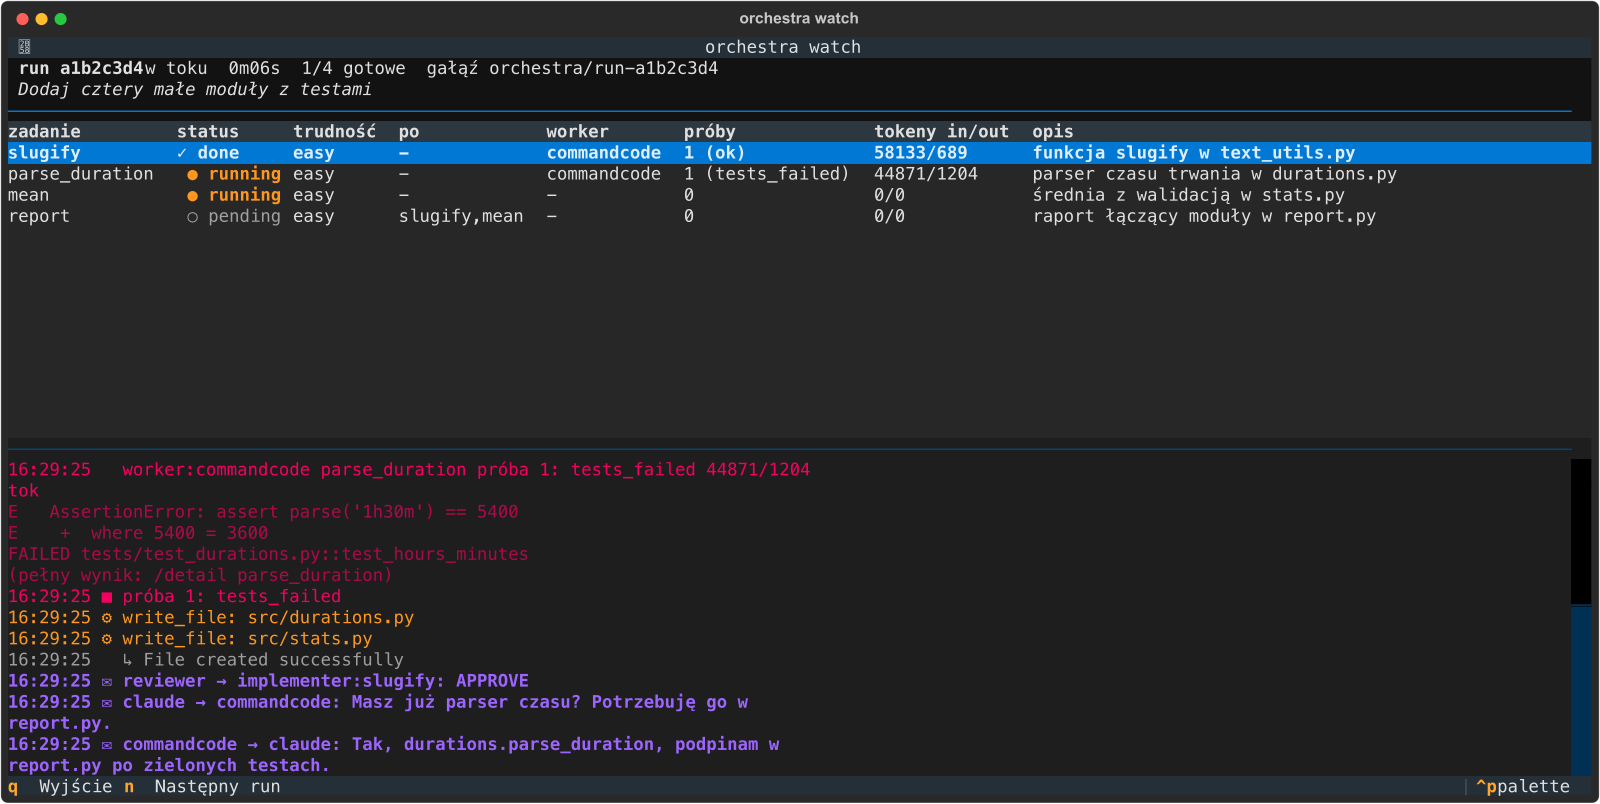
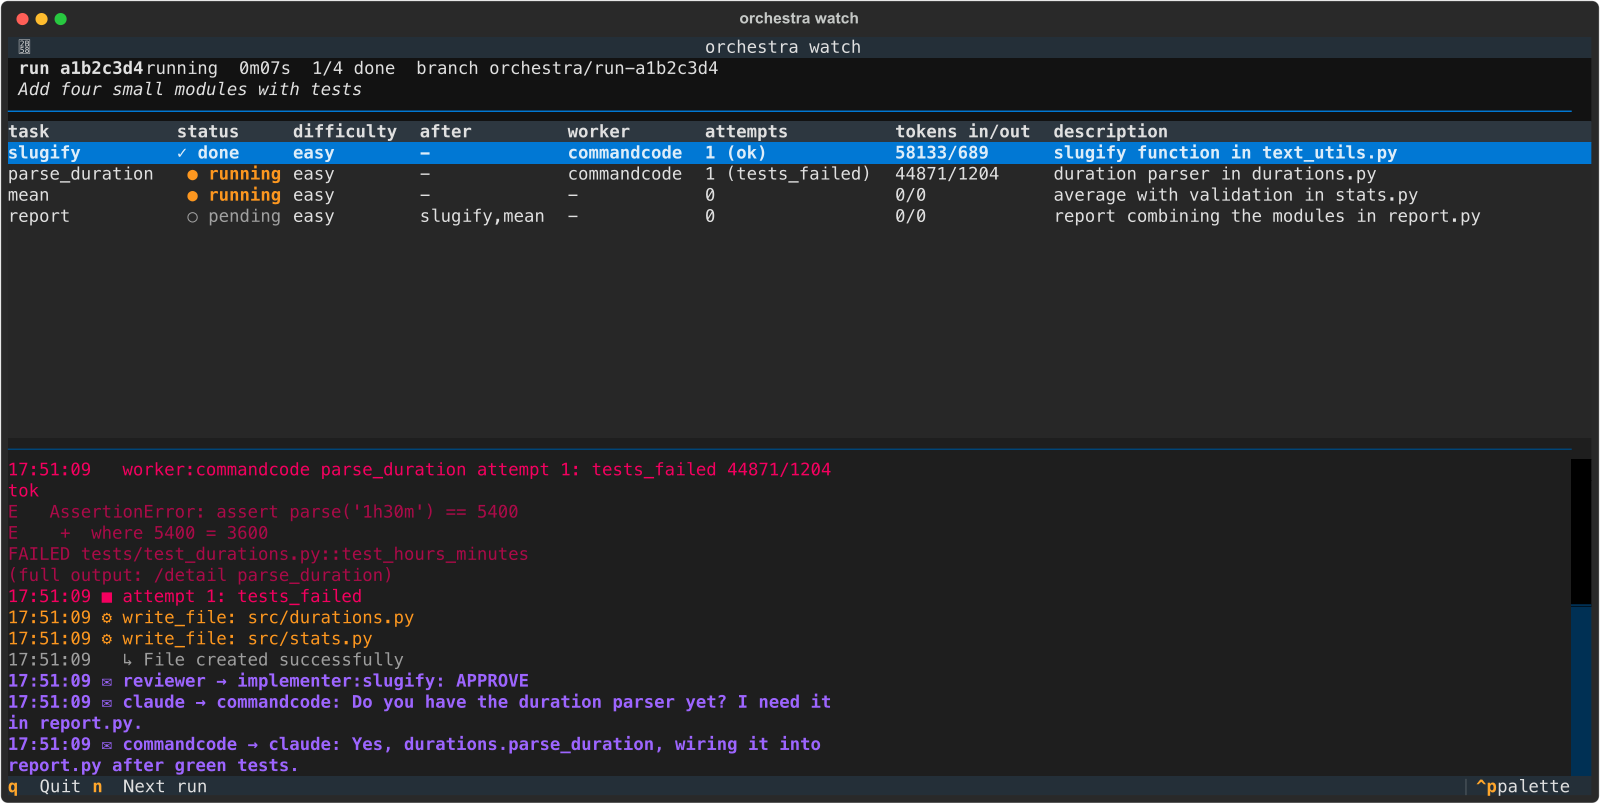
i18n: README, zrzuty TUI i testy po angielsku

diff --git a/tests/test_readme_sync.py b/tests/test_readme_sync.py
@@ -1,10 +1,10 @@
-"""README.pl.md ma opisywać te same funkcje co README.md (test pisze mocny model, tłumaczy worker)."""
+"""README.pl.md must describe the same features as README.md (the strong model writes the test, a worker translates)."""
 
 from pathlib import Path
 
 ROOT = Path(__file__).resolve().parent.parent
 
-# nazwy poleceń, opcji i pól, które muszą wystąpić dosłownie w obu plikach
+# names of commands, options and fields that must appear verbatim in both files
 TOKENS = ["red_check", "red_check_failed", "expect_red", "--no-red-check", "integration_test_cmd", "--integration-test",
           "orchestra ledger budget --set 1.0", "price_in_per_mtok", "price_out_per_mtok", "over_budget",
           "orchestra ledger budget --check", "orchestra ledger add RUN TASK --outcome accepted|fixed|rejected",

diff --git a/tests/test_cli_help.py b/tests/test_cli_help.py
@@ -8,7 +8,7 @@ import pytest
 from orchestra.cli import build_parser, main
 
 COMMANDS = ["doctor", "plan", "init-plan", "run", "watch", "roles", "ledger"]
-POLISH = re.compile("[ąćęłńóśźżĄĆĘŁŃÓŚŹŻ]")
+POLISH = re.compile("[ąćęłńóśźżĄĆĘŁŃÓŚŹŻ]")  # i18n-ok
 
 
 def help_of(capsys, *argv: str) -> str:

diff --git a/README.md b/README.md
@@ -8,7 +8,7 @@ A cost-aware orchestrator for coding agents. Claude Code breaks a hard task into
 
 ![TUI overview: task table, live worker steps, buttons](docs/tui-overview.png)
 
-> The interface strings are in Polish. The screenshots show a made-up demo run.
+> The screenshots show a made-up demo run.
 
 ## Why
 
@@ -71,7 +71,7 @@ Claude is the default, not a requirement. Everything has a fallback, and everyth
 
 **Controlling client.** `orch` picks the first client it finds (`claude`, `opencode`, `codex`) or the one you name with `--client`. The same `orchestra` MCP server and the same task-splitting instructions are attached to each of them, only the wiring differs. If none is installed, `orch` does not fail: it opens the TUI alone, and the **▶ Plan** button (F7) takes a goal, which the planner role splits into tasks, or a plan file that you wrote yourself (`orchestra init-plan` writes a template).
 
-**Roles with a fallback.** `planner`, `reviewer` and `implementer` point at agents in `agents.toml`. If the configured agent is not installed, the role moves to the first available one (planners and reviewers prefer a `strong` tier, workers a `cheap` tier, then the order of `fallback_order`). The bar under the toolbar shows who does what, and `*` marks a change from `agents.toml`. **⚙ Role** (F8) lets you pick any agent for each role and set its model, and `orchestra roles` does the same from the shell. The choice is saved in `.orchestra/roles.json` and applies to the next run, including runs started from Claude Code, OpenCode or Codex. A weaker planner splits tasks worse, which is the price of not having a strong model.
+**Roles with a fallback.** `planner`, `reviewer` and `implementer` point at agents in `agents.toml`. If the configured agent is not installed, the role moves to the first available one (planners and reviewers prefer a `strong` tier, workers a `cheap` tier, then the order of `fallback_order`). The bar under the toolbar shows who does what, and `*` marks a change from `agents.toml`. **⚙ Roles** (F8) lets you pick any agent for each role and set its model, and `orchestra roles` does the same from the shell. The choice is saved in `.orchestra/roles.json` and applies to the next run, including runs started from Claude Code, OpenCode or Codex. A weaker planner splits tasks worse, which is the price of not having a strong model.
 
 ![Role bar with a fallback and the Role dialog](docs/tui-roles.png)
 
@@ -108,11 +108,11 @@ Everything is visible at once, and every action has both a button and a function
 | --- | --- | --- |
 | ＋ Agent | Ctrl+N | new agent session of any type from `agents.toml`, in its own worktree |
 | ▶ Plan | F7 | a goal for the planner role, or your own plan file, runs without any client |
-| ⚙ Role | F8 | which agent and model plays planner, reviewer, implementer |
-| ✉ Wiadom. (message) | F3 | message to a running agent, delivered as its next prompt |
-| ✎ Wskazówka (hint) | F4 | text appended to the next attempt of the chosen task's worker |
+| ⚙ Roles | F8 | which agent and model plays planner, reviewer, implementer |
+| ✉ Msg | F3 | message to a running agent, delivered as its next prompt |
+| ✎ Hint | F4 | text appended to the next attempt of the chosen task's worker |
 | 🔎 Info (details) | F5 | error, `test_cmd`, full test output and files of the last attempt |
-| ⛔ Anuluj (cancel run) | F6 | kills the working workers and ends the run (with confirmation) |
+| ⛔ Cancel | F6 | kills the working workers and ends the run (with confirmation) |
 | ± Diff | F2 | diff of the selected agent's worktree |
 
 Select a row on the left and the text field changes meaning: for an agent it is a prompt, for a task it is a hint (the line under the log tells you what will happen).
@@ -121,7 +121,7 @@ When a worker attempt fails its tests, you see the cause, not just a status:
 
 ![A failed attempt with its test output](docs/tui-failure.png)
 
-Agent conversations and reviewer remarks are in the `✉ wiadomości` (messages) row. You add a new agent from a list, without typing commands:
+Agent conversations and reviewer remarks are in the `✉ messages` row. You add a new agent from a list, without typing commands:
 
 ![Agent conversations and the new agent dialog](docs/tui-new-agent.png)
 

diff --git a/README.pl.md b/README.pl.md
@@ -69,7 +69,7 @@ Claude jest domyślny, ale nie wymagany. Wszystko ma fallback i wszystko da się
 
 **Klient sterujący.** `orch` wybiera pierwszego znalezionego klienta (`claude`, `opencode`, `codex`) albo tego, którego podasz w `--client`. Do każdego podpina ten sam serwer MCP `orchestra` i tę samą instrukcję rozbijania zadań, różni się tylko sposób podłączenia. Gdy nie ma żadnego, `orch` nie kończy się błędem: otwiera samo TUI, a przycisk **▶ Plan** (F7) przyjmuje cel, który rola planner rozbija na zadania, albo plik planu napisany przez Ciebie (szablon zapisze `orchestra init-plan`).
 
-**Role z fallbackiem.** `planner`, `reviewer` i `implementer` wskazują agentów z `agents.toml`. Jeśli wskazany agent nie jest zainstalowany, rola przechodzi na pierwszego dostępnego (planner i reviewer wolą poziom `strong`, worker `cheap`, potem kolejność z `fallback_order`). Pasek pod przyciskami pokazuje, kto co robi, a `*` oznacza zmianę względem `agents.toml`. **⚙ Role** (F8) pozwala wybrać dowolnego agenta dla każdej roli i ustawić jego model, to samo robi `orchestra roles` w terminalu. Wybór zapisuje się w `.orchestra/roles.json` i obowiązuje od następnego przebiegu, także tych uruchomionych z Claude Code, OpenCode albo Codex. Słabszy planner gorzej dzieli zadania, taka jest cena braku mocnego modelu.
+**Role z fallbackiem.** `planner`, `reviewer` i `implementer` wskazują agentów z `agents.toml`. Jeśli wskazany agent nie jest zainstalowany, rola przechodzi na pierwszego dostępnego (planner i reviewer wolą poziom `strong`, worker `cheap`, potem kolejność z `fallback_order`). Pasek pod przyciskami pokazuje, kto co robi, a `*` oznacza zmianę względem `agents.toml`. **⚙ Roles** (F8) pozwala wybrać dowolnego agenta dla każdej roli i ustawić jego model, to samo robi `orchestra roles` w terminalu. Wybór zapisuje się w `.orchestra/roles.json` i obowiązuje od następnego przebiegu, także tych uruchomionych z Claude Code, OpenCode albo Codex. Słabszy planner gorzej dzieli zadania, taka jest cena braku mocnego modelu.
 
 ![Pasek ról z fallbackiem i okno Role](docs/tui-roles.png)
 
@@ -106,11 +106,11 @@ Wszystko jest widoczne od razu, a każda akcja ma przycisk i F-klawisz (skróty 
 | --- | --- | --- |
 | ＋ Agent | Ctrl+N | nowa sesja agenta dowolnego typu z `agents.toml`, we własnym worktree |
 | ▶ Plan | F7 | cel dla roli planner albo własny plik planu, działa bez żadnego klienta |
-| ⚙ Role | F8 | który agent i model pełni rolę planner, reviewer, implementer |
-| ✉ Wiadom. | F3 | wiadomość do działającego agenta, dociera jako jego kolejny prompt |
-| ✎ Wskazówka | F4 | tekst dołączany do następnej próby workera wybranego zadania |
+| ⚙ Roles | F8 | który agent i model pełni rolę planner, reviewer, implementer |
+| ✉ Msg | F3 | wiadomość do działającego agenta, dociera jako jego kolejny prompt |
+| ✎ Hint | F4 | tekst dołączany do następnej próby workera wybranego zadania |
 | 🔎 Info | F5 | błąd, `test_cmd`, pełny wynik testów i pliki ostatniej próby |
-| ⛔ Anuluj | F6 | zabija pracujące workery i kończy przebieg (z potwierdzeniem) |
+| ⛔ Cancel | F6 | zabija pracujące workery i kończy przebieg (z potwierdzeniem) |
 | ± Diff | F2 | diff worktree zaznaczonego agenta |
 
 Zaznacz wiersz po lewej, a pole tekstowe zmienia znaczenie: dla agenta to prompt, dla zadania to wskazówka (podpowiedź pod logiem mówi, co się stanie).
@@ -119,7 +119,7 @@ Gdy próba workera nie przechodzi testów, widać przyczynę, a nie tylko status
 
 ![Nieudana próba z wynikiem testów](docs/tui-failure.png)
 
-Rozmowy agentów i uwagi recenzenta są w wierszu `✉ wiadomości`. Nowego agenta dodajesz z listy, bez wpisywania komend:
+Rozmowy agentów i uwagi recenzenta są w wierszu `✉ messages`. Nowego agenta dodajesz z listy, bez wpisywania komend:
 
 ![Rozmowy agentów i okno nowego agenta](docs/tui-new-agent.png)
 
